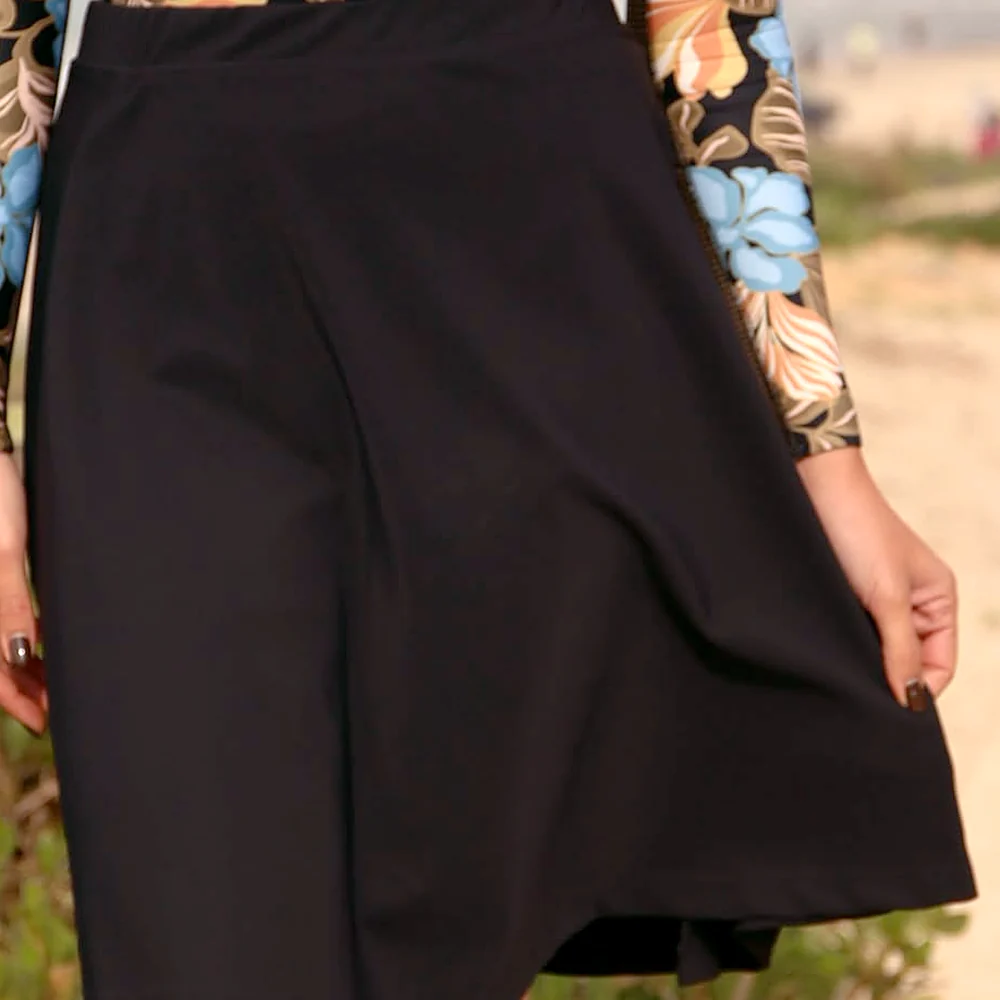
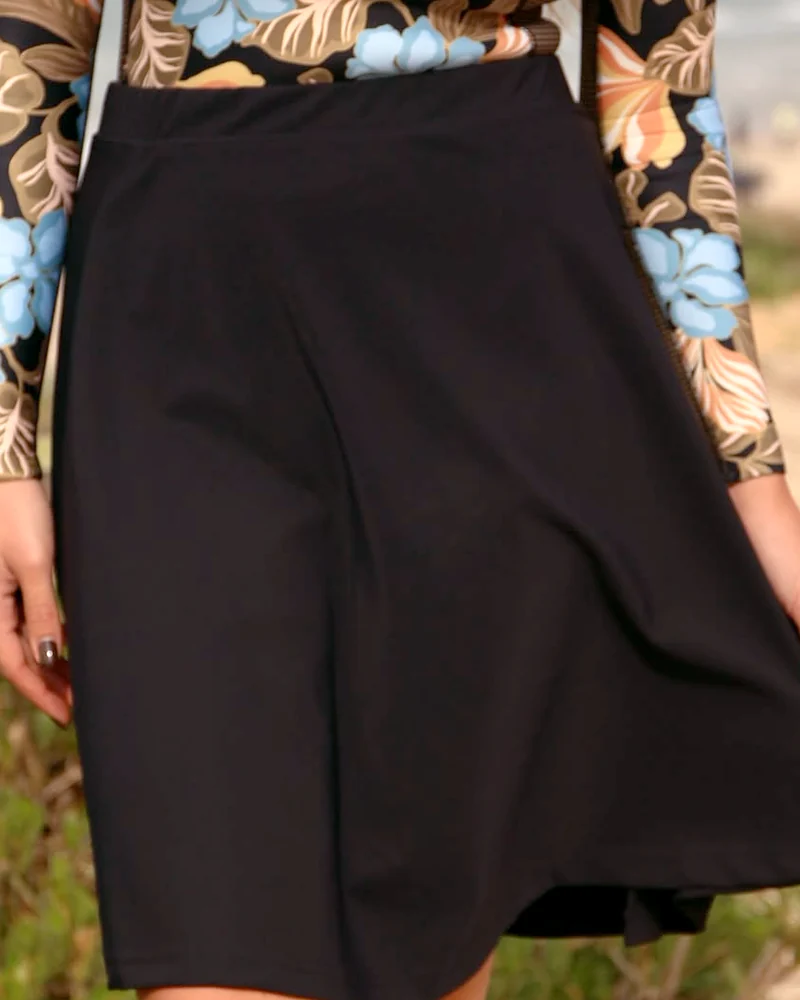
Tevel v7: gallery moves by itself, product shots, modest crops
- Gallery advances every 2.6 s on a JS clock; a tap or reduced-motion
  setting no longer stops it (only a mouse hover or keyboard focus holds it)
- Each model opens with a skirt-only product shot on a light studio background
- Catalogue photos re-cut at the card's 4:5 shape: the whole skirt with air
  around it, ending just under the hem
- Board photos cut to the skirt only; the two that were too small are out
- Viewer shows the full 4:5 picture

Claude-Session: https://claude.ai/code/session_011jVRWuvufdN5HEyMmukT8W

diff --git a/tevel/index.html b/tevel/index.html
@@ -81,11 +81,11 @@
       <div class="wrap">
         <h2 class="sec-title display" id="catalog-title" tabindex="-1" data-reveal="mask"><span>הקטלוג</span></h2>
         <ul class="cards">
-          <li class="card" data-reveal="card" style="--i:0" data-product="maui" data-name="MAUI" data-price="299" data-thumb="assets/img/catalog/maui-1-sm.webp">
+          <li class="card" data-reveal="card" style="--i:0" data-product="maui" data-name="MAUI" data-price="299" data-thumb="assets/img/catalog/maui-0-sm.webp">
             <div class="card__box">
             <div class="gal" data-gal>
-              <ul class="gal__track"><li class="gal__slide is-on"><img src="assets/img/catalog/maui-1-lg.webp" srcset="assets/img/catalog/maui-1-sm.webp 600w, assets/img/catalog/maui-1-lg.webp 1000w" sizes="(min-width: 1100px) 525px, (min-width: 700px) 58vw, 62vw" width="1000" height="1000" alt="חצאית גלישה MAUI בצבע חום" loading="lazy" decoding="async"></li><li class="gal__slide"><img src="assets/img/catalog/maui-2-lg.webp" srcset="assets/img/catalog/maui-2-sm.webp 600w, assets/img/catalog/maui-2-lg.webp 1000w" sizes="(min-width: 1100px) 525px, (min-width: 700px) 58vw, 62vw" width="1000" height="1000" alt="חצאית MAUI, מבט מלפנים" loading="lazy" decoding="async"></li></ul>
-              <div class="gal__dots"><button class="gal__dot" type="button" aria-current="true" aria-label="תמונה 1 מתוך 2"></button><button class="gal__dot" type="button" aria-current="false" aria-label="תמונה 2 מתוך 2"></button></div>
+              <ul class="gal__track"><li class="gal__slide is-on"><img src="assets/img/catalog/maui-0-lg.webp" srcset="assets/img/catalog/maui-0-sm.webp 480w, assets/img/catalog/maui-0-lg.webp 800w" sizes="(min-width: 1100px) 525px, (min-width: 700px) 58vw, 62vw" width="800" height="1000" alt="חצאית MAUI, תמונת מוצר" loading="lazy" decoding="async"></li><li class="gal__slide"><img src="assets/img/catalog/maui-1-lg.webp" srcset="assets/img/catalog/maui-1-sm.webp 480w, assets/img/catalog/maui-1-lg.webp 800w" sizes="(min-width: 1100px) 525px, (min-width: 700px) 58vw, 62vw" width="800" height="1000" alt="חצאית גלישה MAUI בצבע חום" loading="lazy" decoding="async"></li><li class="gal__slide"><img src="assets/img/catalog/maui-2-lg.webp" srcset="assets/img/catalog/maui-2-sm.webp 480w, assets/img/catalog/maui-2-lg.webp 800w" sizes="(min-width: 1100px) 525px, (min-width: 700px) 58vw, 62vw" width="800" height="1000" alt="חצאית MAUI, מבט מלפנים" loading="lazy" decoding="async"></li></ul>
+              <div class="gal__dots"><button class="gal__dot" type="button" aria-current="true" aria-label="תמונה 1 מתוך 3"></button><button class="gal__dot" type="button" aria-current="false" aria-label="תמונה 2 מתוך 3"></button><button class="gal__dot" type="button" aria-current="false" aria-label="תמונה 3 מתוך 3"></button></div>
               <button class="gal__nav gal__nav--prev" type="button" aria-label="התמונה הקודמת"><svg viewBox="0 0 16 16" aria-hidden="true"><path d="M6 3l5 5-5 5"/></svg></button>
               <button class="gal__nav gal__nav--next" type="button" aria-label="התמונה הבאה"><svg viewBox="0 0 16 16" aria-hidden="true"><path d="M6 3l5 5-5 5"/></svg></button>
               <button class="gal__zoom" type="button" data-qv-open aria-label="הגדלת התמונות, MAUI"><svg viewBox="0 0 16 16" aria-hidden="true"><path d="M9.5 2.5h4v4M6.5 13.5h-4v-4M13.5 2.5L9 7M2.5 13.5L7 9"/></svg></button>
@@ -102,11 +102,11 @@
               </button>
             </div>
           </li>
-          <li class="card" data-reveal="card" style="--i:1" data-product="pearl" data-name="PEARL" data-price="309" data-thumb="assets/img/catalog/pearl-1-sm.webp">
+          <li class="card" data-reveal="card" style="--i:1" data-product="pearl" data-name="PEARL" data-price="309" data-thumb="assets/img/catalog/pearl-0-sm.webp">
             <div class="card__box">
             <div class="gal" data-gal>
-              <ul class="gal__track"><li class="gal__slide is-on"><img src="assets/img/catalog/pearl-1-lg.webp" srcset="assets/img/catalog/pearl-1-sm.webp 600w, assets/img/catalog/pearl-1-lg.webp 1000w" sizes="(min-width: 1100px) 525px, (min-width: 700px) 58vw, 62vw" width="1000" height="1000" alt="חצאית גלישה PEARL בצבע שמנת עם פס שחור בשוליים" loading="lazy" decoding="async"></li><li class="gal__slide"><img src="assets/img/catalog/pearl-2-lg.webp" srcset="assets/img/catalog/pearl-2-sm.webp 600w, assets/img/catalog/pearl-2-lg.webp 1000w" sizes="(min-width: 1100px) 525px, (min-width: 700px) 58vw, 62vw" width="1000" height="1000" alt="חצאית PEARL, השוליים פרוסים הצידה" loading="lazy" decoding="async"></li></ul>
-              <div class="gal__dots"><button class="gal__dot" type="button" aria-current="true" aria-label="תמונה 1 מתוך 2"></button><button class="gal__dot" type="button" aria-current="false" aria-label="תמונה 2 מתוך 2"></button></div>
+              <ul class="gal__track"><li class="gal__slide is-on"><img src="assets/img/catalog/pearl-0-lg.webp" srcset="assets/img/catalog/pearl-0-sm.webp 480w, assets/img/catalog/pearl-0-lg.webp 800w" sizes="(min-width: 1100px) 525px, (min-width: 700px) 58vw, 62vw" width="800" height="1000" alt="חצאית PEARL, תמונת מוצר" loading="lazy" decoding="async"></li><li class="gal__slide"><img src="assets/img/catalog/pearl-1-lg.webp" srcset="assets/img/catalog/pearl-1-sm.webp 480w, assets/img/catalog/pearl-1-lg.webp 800w" sizes="(min-width: 1100px) 525px, (min-width: 700px) 58vw, 62vw" width="800" height="1000" alt="חצאית גלישה PEARL בצבע שמנת עם פס שחור בשוליים" loading="lazy" decoding="async"></li><li class="gal__slide"><img src="assets/img/catalog/pearl-2-lg.webp" srcset="assets/img/catalog/pearl-2-sm.webp 480w, assets/img/catalog/pearl-2-lg.webp 800w" sizes="(min-width: 1100px) 525px, (min-width: 700px) 58vw, 62vw" width="800" height="1000" alt="חצאית PEARL, השוליים פרוסים הצידה" loading="lazy" decoding="async"></li></ul>
+              <div class="gal__dots"><button class="gal__dot" type="button" aria-current="true" aria-label="תמונה 1 מתוך 3"></button><button class="gal__dot" type="button" aria-current="false" aria-label="תמונה 2 מתוך 3"></button><button class="gal__dot" type="button" aria-current="false" aria-label="תמונה 3 מתוך 3"></button></div>
               <button class="gal__nav gal__nav--prev" type="button" aria-label="התמונה הקודמת"><svg viewBox="0 0 16 16" aria-hidden="true"><path d="M6 3l5 5-5 5"/></svg></button>
               <button class="gal__nav gal__nav--next" type="button" aria-label="התמונה הבאה"><svg viewBox="0 0 16 16" aria-hidden="true"><path d="M6 3l5 5-5 5"/></svg></button>
               <button class="gal__zoom" type="button" data-qv-open aria-label="הגדלת התמונות, PEARL"><svg viewBox="0 0 16 16" aria-hidden="true"><path d="M9.5 2.5h4v4M6.5 13.5h-4v-4M13.5 2.5L9 7M2.5 13.5L7 9"/></svg></button>
@@ -123,11 +123,11 @@
               </button>
             </div>
           </li>
-          <li class="card" data-reveal="card" style="--i:0" data-product="shell" data-name="SHELL" data-price="319" data-thumb="assets/img/catalog/shell-1-sm.webp">
+          <li class="card" data-reveal="card" style="--i:0" data-product="shell" data-name="SHELL" data-price="319" data-thumb="assets/img/catalog/shell-0-sm.webp">
             <div class="card__box">
             <div class="gal" data-gal>
-              <ul class="gal__track"><li class="gal__slide is-on"><img src="assets/img/catalog/shell-1-lg.webp" srcset="assets/img/catalog/shell-1-sm.webp 600w, assets/img/catalog/shell-1-lg.webp 1000w" sizes="(min-width: 1100px) 525px, (min-width: 700px) 58vw, 62vw" width="1000" height="1000" alt="חצאית גלישה SHELL שחורה עם פס מנומר לאורכה" loading="lazy" decoding="async"></li><li class="gal__slide"><img src="assets/img/catalog/shell-2-lg.webp" srcset="assets/img/catalog/shell-2-sm.webp 600w, assets/img/catalog/shell-2-lg.webp 1000w" sizes="(min-width: 1100px) 525px, (min-width: 700px) 58vw, 62vw" width="1000" height="1000" alt="חצאית SHELL, המעטפת נפתחת לאורך הפס" loading="lazy" decoding="async"></li></ul>
-              <div class="gal__dots"><button class="gal__dot" type="button" aria-current="true" aria-label="תמונה 1 מתוך 2"></button><button class="gal__dot" type="button" aria-current="false" aria-label="תמונה 2 מתוך 2"></button></div>
+              <ul class="gal__track"><li class="gal__slide is-on"><img src="assets/img/catalog/shell-0-lg.webp" srcset="assets/img/catalog/shell-0-sm.webp 480w, assets/img/catalog/shell-0-lg.webp 800w" sizes="(min-width: 1100px) 525px, (min-width: 700px) 58vw, 62vw" width="800" height="1000" alt="חצאית SHELL, תמונת מוצר" loading="lazy" decoding="async"></li><li class="gal__slide"><img src="assets/img/catalog/shell-1-lg.webp" srcset="assets/img/catalog/shell-1-sm.webp 480w, assets/img/catalog/shell-1-lg.webp 800w" sizes="(min-width: 1100px) 525px, (min-width: 700px) 58vw, 62vw" width="800" height="1000" alt="חצאית גלישה SHELL שחורה עם פס מנומר לאורכה" loading="lazy" decoding="async"></li><li class="gal__slide"><img src="assets/img/catalog/shell-2-lg.webp" srcset="assets/img/catalog/shell-2-sm.webp 480w, assets/img/catalog/shell-2-lg.webp 800w" sizes="(min-width: 1100px) 525px, (min-width: 700px) 58vw, 62vw" width="800" height="1000" alt="חצאית SHELL, המעטפת נפתחת לאורך הפס" loading="lazy" decoding="async"></li></ul>
+              <div class="gal__dots"><button class="gal__dot" type="button" aria-current="true" aria-label="תמונה 1 מתוך 3"></button><button class="gal__dot" type="button" aria-current="false" aria-label="תמונה 2 מתוך 3"></button><button class="gal__dot" type="button" aria-current="false" aria-label="תמונה 3 מתוך 3"></button></div>
               <button class="gal__nav gal__nav--prev" type="button" aria-label="התמונה הקודמת"><svg viewBox="0 0 16 16" aria-hidden="true"><path d="M6 3l5 5-5 5"/></svg></button>
               <button class="gal__nav gal__nav--next" type="button" aria-label="התמונה הבאה"><svg viewBox="0 0 16 16" aria-hidden="true"><path d="M6 3l5 5-5 5"/></svg></button>
               <button class="gal__zoom" type="button" data-qv-open aria-label="הגדלת התמונות, SHELL"><svg viewBox="0 0 16 16" aria-hidden="true"><path d="M9.5 2.5h4v4M6.5 13.5h-4v-4M13.5 2.5L9 7M2.5 13.5L7 9"/></svg></button>
@@ -144,11 +144,11 @@
               </button>
             </div>
           </li>
-          <li class="card" data-reveal="card" style="--i:1" data-product="classic" data-name="THE CLASSIC" data-price="299" data-thumb="assets/img/catalog/classic-1-sm.webp">
+          <li class="card" data-reveal="card" style="--i:1" data-product="classic" data-name="THE CLASSIC" data-price="299" data-thumb="assets/img/catalog/classic-0-sm.webp">
             <div class="card__box">
             <div class="gal" data-gal>
-              <ul class="gal__track"><li class="gal__slide is-on"><img src="assets/img/catalog/classic-1-lg.webp" srcset="assets/img/catalog/classic-1-sm.webp 600w, assets/img/catalog/classic-1-lg.webp 1000w" sizes="(min-width: 1100px) 525px, (min-width: 700px) 58vw, 62vw" width="1000" height="1000" alt="חצאית גלישה THE CLASSIC שחורה חלקה" loading="lazy" decoding="async"></li><li class="gal__slide"><img src="assets/img/catalog/classic-2-lg.webp" srcset="assets/img/catalog/classic-2-sm.webp 600w, assets/img/catalog/classic-2-lg.webp 1000w" sizes="(min-width: 1100px) 525px, (min-width: 700px) 58vw, 62vw" width="1000" height="1000" alt="חצאית THE CLASSIC, מבט נוסף" loading="lazy" decoding="async"></li></ul>
-              <div class="gal__dots"><button class="gal__dot" type="button" aria-current="true" aria-label="תמונה 1 מתוך 2"></button><button class="gal__dot" type="button" aria-current="false" aria-label="תמונה 2 מתוך 2"></button></div>
+              <ul class="gal__track"><li class="gal__slide is-on"><img src="assets/img/catalog/classic-0-lg.webp" srcset="assets/img/catalog/classic-0-sm.webp 480w, assets/img/catalog/classic-0-lg.webp 800w" sizes="(min-width: 1100px) 525px, (min-width: 700px) 58vw, 62vw" width="800" height="1000" alt="חצאית THE CLASSIC, תמונת מוצר" loading="lazy" decoding="async"></li><li class="gal__slide"><img src="assets/img/catalog/classic-1-lg.webp" srcset="assets/img/catalog/classic-1-sm.webp 480w, assets/img/catalog/classic-1-lg.webp 800w" sizes="(min-width: 1100px) 525px, (min-width: 700px) 58vw, 62vw" width="800" height="1000" alt="חצאית גלישה THE CLASSIC שחורה חלקה" loading="lazy" decoding="async"></li><li class="gal__slide"><img src="assets/img/catalog/classic-2-lg.webp" srcset="assets/img/catalog/classic-2-sm.webp 480w, assets/img/catalog/classic-2-lg.webp 800w" sizes="(min-width: 1100px) 525px, (min-width: 700px) 58vw, 62vw" width="800" height="1000" alt="חצאית THE CLASSIC, מבט נוסף" loading="lazy" decoding="async"></li></ul>
+              <div class="gal__dots"><button class="gal__dot" type="button" aria-current="true" aria-label="תמונה 1 מתוך 3"></button><button class="gal__dot" type="button" aria-current="false" aria-label="תמונה 2 מתוך 3"></button><button class="gal__dot" type="button" aria-current="false" aria-label="תמונה 3 מתוך 3"></button></div>
               <button class="gal__nav gal__nav--prev" type="button" aria-label="התמונה הקודמת"><svg viewBox="0 0 16 16" aria-hidden="true"><path d="M6 3l5 5-5 5"/></svg></button>
               <button class="gal__nav gal__nav--next" type="button" aria-label="התמונה הבאה"><svg viewBox="0 0 16 16" aria-hidden="true"><path d="M6 3l5 5-5 5"/></svg></button>
               <button class="gal__zoom" type="button" data-qv-open aria-label="הגדלת התמונות, THE CLASSIC"><svg viewBox="0 0 16 16" aria-hidden="true"><path d="M9.5 2.5h4v4M6.5 13.5h-4v-4M13.5 2.5L9 7M2.5 13.5L7 9"/></svg></button>
@@ -191,13 +191,13 @@
       </div>
       <div class="slider wrap" data-slider data-reveal>
         <div class="slider__stage">
-          <div class="slider__track" aria-live="off"><div class="slide" role="group" aria-roledescription="שקופית" aria-label="1 מתוך 8"><img src="assets/img/surf/surf-1.webp" srcset="assets/img/surf/surf-1-sm.webp 700w, assets/img/surf/surf-1.webp 1000w" sizes="(min-width: 1100px) 340px, (min-width: 700px) 42vw, 80vw" width="591" height="752" alt="גולשת על גל בחצאית גלישה שחורה" loading="lazy" decoding="async" draggable="false"></div><div class="slide" role="group" aria-roledescription="שקופית" aria-label="2 מתוך 8"><img src="assets/img/board/board-1-lg.webp" srcset="assets/img/board/board-1-sm.webp 560w, assets/img/board/board-1-lg.webp 900w" sizes="(min-width: 1100px) 340px, (min-width: 700px) 42vw, 80vw" width="900" height="900" alt="חצאית גלישה שחורה וגלשן צהוב" loading="lazy" decoding="async" draggable="false"></div><div class="slide" role="group" aria-roledescription="שקופית" aria-label="3 מתוך 8"><img src="assets/img/surf/surf-2.webp" srcset="assets/img/surf/surf-2-sm.webp 700w, assets/img/surf/surf-2.webp 1000w" sizes="(min-width: 1100px) 340px, (min-width: 700px) 42vw, 80vw" width="702" height="878" alt="גולשת בחצאית גלישה שחורה בתוך הגל" loading="lazy" decoding="async" draggable="false"></div><div class="slide" role="group" aria-roledescription="שקופית" aria-label="4 מתוך 8"><img src="assets/img/board/board-2-lg.webp" srcset="assets/img/board/board-2-sm.webp 560w, assets/img/board/board-2-lg.webp 900w" sizes="(min-width: 1100px) 340px, (min-width: 700px) 42vw, 80vw" width="900" height="900" alt="חצאית גלישה שחורה על החוף בשקיעה" loading="lazy" decoding="async" draggable="false"></div><div class="slide" role="group" aria-roledescription="שקופית" aria-label="5 מתוך 8"><img src="assets/img/surf/surf-3.webp" srcset="assets/img/surf/surf-3-sm.webp 700w, assets/img/surf/surf-3.webp 1000w" sizes="(min-width: 1100px) 340px, (min-width: 700px) 42vw, 80vw" width="885" height="871" alt="גולשת בחצאית גלישה שחורה מול גל נשבר" loading="lazy" decoding="async" draggable="false"></div><div class="slide" role="group" aria-roledescription="שקופית" aria-label="6 מתוך 8"><img src="assets/img/board/board-3-lg.webp" srcset="assets/img/board/board-3-sm.webp 560w, assets/img/board/board-3-lg.webp 900w" sizes="(min-width: 1100px) 340px, (min-width: 700px) 42vw, 80vw" width="900" height="900" alt="חצאית גלישה שחורה וגלשן ארוך על החוף" loading="lazy" decoding="async" draggable="false"></div><div class="slide" role="group" aria-roledescription="שקופית" aria-label="7 מתוך 8"><img src="assets/img/surf/surf-4.webp" srcset="assets/img/surf/surf-4-sm.webp 700w, assets/img/surf/surf-4.webp 1000w" sizes="(min-width: 1100px) 340px, (min-width: 700px) 42vw, 80vw" width="1021" height="1080" alt="גולשת בחצאית גלישה שחורה על גלשן צהוב" loading="lazy" decoding="async" draggable="false"></div><div class="slide" role="group" aria-roledescription="שקופית" aria-label="8 מתוך 8"><img src="assets/img/board/board-4-lg.webp" srcset="assets/img/board/board-4-sm.webp 560w, assets/img/board/board-4-lg.webp 900w" sizes="(min-width: 1100px) 340px, (min-width: 700px) 42vw, 80vw" width="900" height="900" alt="חצאית גלישה שחורה וגלשן מול הים" loading="lazy" decoding="async" draggable="false"></div></div>
+          <div class="slider__track" aria-live="off"><div class="slide" role="group" aria-roledescription="שקופית" aria-label="1 מתוך 6"><img src="assets/img/surf/surf-1.webp" srcset="assets/img/surf/surf-1-sm.webp 700w, assets/img/surf/surf-1.webp 1000w" sizes="(min-width: 1100px) 340px, (min-width: 700px) 42vw, 80vw" width="591" height="752" alt="גולשת על גל בחצאית גלישה שחורה" loading="lazy" decoding="async" draggable="false"></div><div class="slide" role="group" aria-roledescription="שקופית" aria-label="2 מתוך 6"><img src="assets/img/board/skirt-a-lg.webp" srcset="assets/img/board/skirt-a-sm.webp 480w, assets/img/board/skirt-a-lg.webp 720w" sizes="(min-width: 1100px) 340px, (min-width: 700px) 42vw, 80vw" width="720" height="900" alt="חצאית גלישה שחורה על החוף בשקיעה" loading="lazy" decoding="async" draggable="false"></div><div class="slide" role="group" aria-roledescription="שקופית" aria-label="3 מתוך 6"><img src="assets/img/surf/surf-2.webp" srcset="assets/img/surf/surf-2-sm.webp 700w, assets/img/surf/surf-2.webp 1000w" sizes="(min-width: 1100px) 340px, (min-width: 700px) 42vw, 80vw" width="702" height="878" alt="גולשת בחצאית גלישה שחורה בתוך הגל" loading="lazy" decoding="async" draggable="false"></div><div class="slide" role="group" aria-roledescription="שקופית" aria-label="4 מתוך 6"><img src="assets/img/surf/surf-3.webp" srcset="assets/img/surf/surf-3-sm.webp 700w, assets/img/surf/surf-3.webp 1000w" sizes="(min-width: 1100px) 340px, (min-width: 700px) 42vw, 80vw" width="885" height="871" alt="גולשת בחצאית גלישה שחורה מול גל נשבר" loading="lazy" decoding="async" draggable="false"></div><div class="slide" role="group" aria-roledescription="שקופית" aria-label="5 מתוך 6"><img src="assets/img/board/skirt-b-lg.webp" srcset="assets/img/board/skirt-b-sm.webp 480w, assets/img/board/skirt-b-lg.webp 720w" sizes="(min-width: 1100px) 340px, (min-width: 700px) 42vw, 80vw" width="720" height="900" alt="חצאית גלישה שחורה וגלשן מתחת לזרוע" loading="lazy" decoding="async" draggable="false"></div><div class="slide" role="group" aria-roledescription="שקופית" aria-label="6 מתוך 6"><img src="assets/img/surf/surf-4.webp" srcset="assets/img/surf/surf-4-sm.webp 700w, assets/img/surf/surf-4.webp 1000w" sizes="(min-width: 1100px) 340px, (min-width: 700px) 42vw, 80vw" width="1021" height="1080" alt="גולשת בחצאית גלישה שחורה על גלשן צהוב" loading="lazy" decoding="async" draggable="false"></div></div>
           <button class="slider__nav slider__nav--prev" type="button" data-slide-prev aria-label="התמונה הקודמת"><svg viewBox="0 0 16 16" aria-hidden="true"><path d="M6 3l5 5-5 5"/></svg></button>
           <button class="slider__nav slider__nav--next" type="button" data-slide-next aria-label="התמונה הבאה"><svg viewBox="0 0 16 16" aria-hidden="true"><path d="M6 3l5 5-5 5"/></svg></button>
         </div>
         <div class="slider__bar">
-          <p class="slider__count latin" aria-hidden="true"><b data-slide-cur>01</b><span>/</span>08</p>
-          <div class="slider__segs"><button class="slider__seg" type="button" aria-label="תמונה 1" aria-current="true"><i></i></button><button class="slider__seg" type="button" aria-label="תמונה 2"><i></i></button><button class="slider__seg" type="button" aria-label="תמונה 3"><i></i></button><button class="slider__seg" type="button" aria-label="תמונה 4"><i></i></button><button class="slider__seg" type="button" aria-label="תמונה 5"><i></i></button><button class="slider__seg" type="button" aria-label="תמונה 6"><i></i></button><button class="slider__seg" type="button" aria-label="תמונה 7"><i></i></button><button class="slider__seg" type="button" aria-label="תמונה 8"><i></i></button></div>
+          <p class="slider__count latin" aria-hidden="true"><b data-slide-cur>01</b><span>/</span>06</p>
+          <div class="slider__segs"><button class="slider__seg" type="button" aria-label="תמונה 1" aria-current="true"><i></i></button><button class="slider__seg" type="button" aria-label="תמונה 2"><i></i></button><button class="slider__seg" type="button" aria-label="תמונה 3"><i></i></button><button class="slider__seg" type="button" aria-label="תמונה 4"><i></i></button><button class="slider__seg" type="button" aria-label="תמונה 5"><i></i></button><button class="slider__seg" type="button" aria-label="תמונה 6"><i></i></button></div>
           <button class="slider__play" type="button" data-slide-play aria-label="עצירת ההחלפה האוטומטית"><svg class="i-pause" viewBox="0 0 16 16" aria-hidden="true"><rect x="4" y="3" width="2.6" height="10" rx="1"/><rect x="9.4" y="3" width="2.6" height="10" rx="1"/></svg><svg class="i-play" viewBox="0 0 16 16" aria-hidden="true"><path d="M5 3.2v9.6a.5.5 0 0 0 .77.42l7.4-4.8a.5.5 0 0 0 0-.84l-7.4-4.8A.5.5 0 0 0 5 3.2z"/></svg></button>
         </div>
       </div>

diff --git a/tevel/assets/js/main.js b/tevel/assets/js/main.js
@@ -415,7 +415,10 @@
     var EASE = 'transform 0.8s cubic-bezier(0.16, 1, 0.3, 1)';
     var pos = 0;
     var step = 0;
-    var holds = { hover: false, view: true, page: false, user: false, drag: false, near: false };
+    var holds = { hover: false, focus: false, view: true, page: false, user: false, drag: false, near: false };
+    var DUR = 2600;                 /* time on each picture */
+    var elapsed = 0;
+    slider.style.setProperty('--dur', DUR + 'ms');
 
     function snapActive(i) {
       all.forEach(function (s, k) { s.style.transition = 'none'; s.classList.toggle('is-active', k === i); });
@@ -472,6 +475,7 @@
         target = N - 1;
       }
       pos = target;
+      elapsed = 0;
       place(!reduceMotion.matches);
       paint();
     }
@@ -485,9 +489,24 @@
       }
     });
 
-    function sync() {
-      slider.classList.toggle('is-paused', holds.hover || !holds.view || holds.page || holds.drag);
+    function paused() {
+      return holds.hover || holds.focus || !holds.view || holds.page || holds.drag;
     }
+
+    function sync() {
+      slider.classList.toggle('is-paused', paused());
+    }
+
+    /* the clock: a JS timer, so it also runs when the phone asks for less motion */
+    var lastTick = Date.now();
+    window.setInterval(function () {
+      var now = Date.now();
+      var dt = Math.min(now - lastTick, 400);
+      lastTick = now;
+      if (holds.user || paused()) return;
+      elapsed += dt;
+      if (elapsed >= DUR) go(pos + 1);
+    }, 100);
 
     function stop(on) {
       holds.user = on;
@@ -496,21 +515,23 @@
       if (!on) paint();
     }
 
-    $('.slider__segs', slider).addEventListener('animationend', function () {
-      if (!holds.user) go(pos + 1);
-    });
     $('[data-slide-next]', slider).addEventListener('click', function () { go(pos + 1); });
     $('[data-slide-prev]', slider).addEventListener('click', function () { go(pos - 1); });
     segs.forEach(function (seg, i) { seg.addEventListener('click', function () { go(i); }); });
     playBtn.addEventListener('click', function () { stop(!holds.user); });
 
-    slider.addEventListener('mouseenter', function () { holds.hover = true; sync(); });
-    slider.addEventListener('mouseleave', function () { holds.hover = false; sync(); });
-    slider.addEventListener('focusin', function () { holds.hover = true; sync(); });
-    slider.addEventListener('focusout', function () { holds.hover = false; sync(); });
+    /* a mouse resting on the gallery holds it; a finger tap does not (touch has no "leave") */
+    slider.addEventListener('pointerenter', function (e) { if (e.pointerType === 'mouse') { holds.hover = true; sync(); } });
+    slider.addEventListener('pointerleave', function (e) { if (e.pointerType === 'mouse') { holds.hover = false; sync(); } });
+    slider.addEventListener('focusin', function (e) {
+      var kb = false;
+      try { kb = e.target.matches(':focus-visible'); } catch (err) { kb = false; }
+      holds.focus = kb; sync();
+    });
+    slider.addEventListener('focusout', function () { holds.focus = false; sync(); });
     document.addEventListener('visibilitychange', function () { holds.page = document.hidden; sync(); });
     if ('IntersectionObserver' in window) {
-      new IntersectionObserver(function (entries) { holds.view = entries[0].isIntersecting; sync(); }, { threshold: 0.3 }).observe(slider);
+      new IntersectionObserver(function (entries) { holds.view = entries[0].isIntersecting; sync(); }, { threshold: 0.25 }).observe(slider);
       var nearWatch = new IntersectionObserver(function (entries) {
         if (!entries[0].isIntersecting) return;
         holds.near = true;
@@ -563,7 +584,7 @@
     window.addEventListener('resize', function () { measure(); place(false); });
     measure();
     place(false);
-    if (reduceMotion.matches) stop(true);
+    /* the client asked for the gallery to keep moving on its own; the pause button stays for anyone who wants it still */
     paint();
   }
 

diff --git a/tevel/assets/css/style.css b/tevel/assets/css/style.css
@@ -3753,3 +3753,27 @@ html.has-cart .social.is-tucked {
     animation: none !important;
   }
 }
+
+/* ======================= v7: product shots, 4:5 catalogue, gallery clock ======================= */
+
+/* catalogue files are 4:5 now, the same shape as the card photo: nothing is cut off */
+.card[data-product] .gal__slide img {
+  object-position: 50% 50%;
+}
+
+/* viewer: show the whole 4:5 picture */
+.qv__track img {
+  aspect-ratio: 4 / 5;
+  object-fit: contain;
+}
+
+.qv__gal {
+  background: #f1ece5;
+}
+
+/* with less motion the bar simply marks the current picture */
+@media (prefers-reduced-motion: reduce) {
+  .slider__seg[aria-current="true"] i::after {
+    transform: scaleX(1);
+  }
+}
